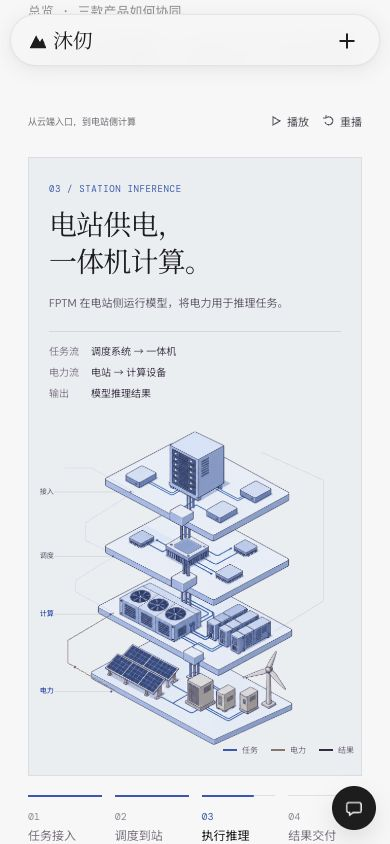
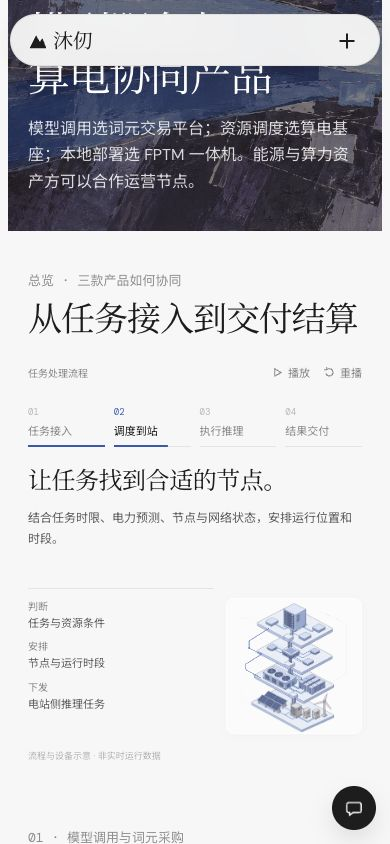
Integrate compact task flow into existing editorial site layout

diff --git a/index.html b/index.html
@@ -681,22 +681,22 @@ a.sx-a:hover .sxw,a.sx-a:hover .sx-plant{transform:translateY(-2px);background:r
  .gcard:hover .pv{transform:translateY(-3px)}.gcard .pv{transition:transform .3s var(--ease-out)}
 }
 
-/* Engineering illustration: conceptual roles, separate task and energy flows. */
-.business-flow{margin:30px 0 0;color:var(--brand-carbon)}
-.flow-toolbar{display:flex;align-items:center;justify-content:space-between;gap:12px;margin-bottom:14px;color:#766f78;font:400 11px var(--mono)}
-.flow-controls{display:flex;gap:18px}.flow-controls button{display:flex;align-items:center;gap:5px;min-height:38px;padding:4px 0;border:0;background:none;color:#655f69;font:400 11px var(--sans);cursor:pointer}.flow-controls button:hover{color:var(--brand-action)}.flow-controls svg{width:12px;height:12px}.flow-controls button:disabled{opacity:.55}
-.flow-stage{position:relative;display:grid;grid-template-columns:.8fr 1.6fr;align-items:center;gap:0;min-height:550px;padding:30px 20px 24px 30px;background:#edf0f3;border:1px solid #3D314F16;overflow:hidden}
-.flow-copy{position:relative;min-height:320px;z-index:2}.flow-scene{position:absolute;inset:0;opacity:0;visibility:hidden;transform:translateY(8px);transition:opacity .45s,transform .6s;pointer-events:none}.flow-scene.is-current{opacity:1;visibility:visible;transform:none;pointer-events:auto}
-.flow-eyebrow{display:block;font:400 10px var(--mono);letter-spacing:.07em;color:var(--brand-action);margin-bottom:20px}.flow-scene h3{font:400 31px/1.32 var(--serif);margin:0 0 18px;color:var(--brand-carbon);letter-spacing:-.03em}.flow-scene p{font:400 12px/1.9 var(--sans);color:#756c7d;margin:0 0 24px;max-width:22em}
-.flow-facts{display:grid;gap:12px;padding-top:18px;border-top:1px solid #3D314F20;margin:0}.flow-facts div{display:flex;gap:12px;font:400 11px/1.6 var(--sans)}.flow-facts dt{color:#938799;flex:none;width:3em}.flow-facts dd{margin:0;color:#50465b}
-.flow-art{position:relative;width:100%;aspect-ratio:1;align-self:center}.flow-art>img{display:block;width:100%;height:100%;object-fit:contain}.flow-art>svg{position:absolute;inset:0;width:100%;height:100%;overflow:visible}
-.flow-wire{fill:none;stroke:var(--brand-action);stroke-width:1.6;stroke-linecap:round;stroke-linejoin:round;opacity:.17}.flow-wire.energy{stroke:#96817a}.flow-wire.result{stroke:var(--brand-violet)}.flow-wire.active{stroke-width:2.5;opacity:.85}.flow-packet{fill:var(--brand-action);stroke:#edf0f3;stroke-width:2}.flow-packet.energy{fill:#96817a}.flow-packet.result{fill:var(--brand-violet)}
-.flow-layer-label{font:400 22px var(--sans);fill:#71677d}.flow-layer-label.active{fill:var(--brand-action);font-weight:500}.flow-layer-guide{fill:none;stroke:#3D314F55;stroke-width:1}.flow-layer-dot{fill:#3D314F80}.flow-layer-dot.active{fill:var(--brand-action)}
-.flow-art-key{position:absolute;right:2px;bottom:0;display:flex;gap:13px;font:400 9px var(--sans);color:#83758c}.flow-art-key span{display:flex;align-items:center;gap:5px}.flow-art-key i{width:14px;height:2px;background:var(--brand-action)}.flow-art-key span:nth-child(2) i{background:#96817a}.flow-art-key span:nth-child(3) i{background:var(--brand-violet)}
-.flow-nav{display:grid;grid-template-columns:repeat(4,minmax(0,1fr));gap:22px;margin-top:24px}.flow-nav button{position:relative;padding:14px 0;text-align:left;background:none;border:0;border-top:1px solid #3D314F1f;font:400 13px var(--sans);color:#8a818d;cursor:pointer}.flow-nav button:before{content:"";position:absolute;left:0;right:0;top:-1px;height:2px;background:var(--brand-action);transform:scaleX(var(--step-progress,0));transform-origin:left}.flow-nav button[aria-current="step"]{color:var(--brand-carbon)}.flow-nav em{font:400 10px var(--mono);margin-right:8px;color:#9a91a0}.flow-nav button[aria-current="step"] em{color:var(--brand-action)}
-.flow-caption{font:400 13px/1.85 var(--sans);color:#716979;min-height:49px;margin:5px 0 0;max-width:650px}.flow-caption p{margin:0}.flow-caption [hidden]{display:none}.flow-note{display:block;font:400 10px/1.7 var(--sans);color:#99909b;margin-top:12px}.flow-controls button:focus-visible,.flow-nav button:focus-visible{outline:2px solid var(--brand-action);outline-offset:4px}
-@media(max-width:1100px) and (min-width:801px){.flow-stage{padding:26px 14px;grid-template-columns:.8fr 1.2fr}.flow-scene h3{font-size:27px}.flow-facts div{font-size:10px}}
-@media(max-width:800px){.flow-toolbar{font-size:9px}.flow-controls{gap:14px}.flow-controls button{min-height:44px}.flow-stage{display:flex;flex-direction:column;align-items:stretch;padding:25px 20px 20px;min-height:0}.flow-copy{min-height:240px}.flow-scene h3{font-size:28px;margin-bottom:12px}.flow-scene h3 br{display:none}.flow-scene p{font-size:11px;max-width:none;margin-bottom:17px}.flow-eyebrow{font-size:9px;margin-bottom:12px}.flow-facts{gap:5px;padding-top:12px}.flow-facts div{font-size:10px}.flow-art{width:calc(100% + 30px);margin:0 -15px 10px}.flow-art-key{bottom:-10px;font-size:8px}.flow-nav{gap:13px;margin-top:19px}.flow-nav button{font-size:12px;min-height:56px;line-height:1.5}.flow-nav em{display:block;margin:0 0 4px}.flow-caption{font-size:12px;min-height:72px}.flow-note{font-size:9px}}
+/* Compact product explanation, using the site's editorial spacing and surfaces. */
+.business-flow{margin:18px 0 0;color:var(--brand-carbon)}
+.flow-toolbar{display:flex;align-items:center;justify-content:space-between;gap:12px;margin-bottom:5px;color:var(--ink-50);font:400 11px var(--sans)}
+.flow-controls{display:flex;gap:16px}.flow-controls button{display:flex;align-items:center;gap:5px;min-height:34px;padding:3px 0;border:0;background:none;color:var(--ink-50);font:400 11px var(--sans);cursor:pointer}.flow-controls button:hover{color:var(--ink)}.flow-controls svg{width:11px;height:11px}.flow-controls button:disabled{opacity:.55}
+.flow-nav{display:grid;grid-template-columns:repeat(4,minmax(0,1fr));gap:20px;margin:0 0 20px}.flow-nav button{position:relative;padding:12px 0;text-align:left;background:none;border:0;border-bottom:1px solid var(--line);font:400 13px var(--sans);color:var(--ink-50);cursor:pointer}.flow-nav button:before{content:"";position:absolute;left:0;right:0;bottom:-1px;height:2px;background:var(--brand-action);transform:scaleX(var(--step-progress,0));transform-origin:left}.flow-nav button[aria-current="step"]{color:var(--ink)}.flow-nav em{font:400 10px var(--mono);margin-right:7px;color:var(--ink-30)}.flow-nav button[aria-current="step"] em{color:var(--brand-action)}
+.flow-stage{position:relative;display:grid;grid-template-columns:minmax(0,1fr) 254px;align-items:center;gap:30px;padding:0;background:none;border:0;min-height:254px}
+.flow-copy{position:relative;min-height:226px}.flow-scene{position:absolute;inset:0;opacity:0;visibility:hidden;transform:translateY(5px);transition:opacity .3s,transform .4s;pointer-events:none}.flow-scene.is-current{opacity:1;visibility:visible;transform:none;pointer-events:auto}
+.flow-eyebrow{display:none}.flow-scene h3{font:400 25px/1.35 var(--serif);margin:0 0 10px;color:var(--ink);letter-spacing:-.02em}.flow-scene h3 br{display:none}.flow-scene p{font:400 13px/1.75 var(--sans);color:var(--ink-70);margin:0 0 16px;max-width:37em}
+.flow-facts{display:grid;gap:7px;padding:13px 0 0;border-top:1px solid var(--line);margin:0}.flow-facts div{display:flex;gap:16px;font:400 12px/1.65 var(--sans)}.flow-facts dt{color:var(--ink-50);flex:none;width:3em}.flow-facts dd{margin:0;color:var(--ink-70)}
+.flow-art{position:relative;width:254px;aspect-ratio:1;align-self:center;background:rgba(255,255,255,.48);border-radius:12px;box-shadow:inset 0 0 0 1px #ffffffa6,0 2px 9px #3D314F05}.flow-art>img{position:absolute;inset:9px 8px 16px;display:block;width:calc(100% - 16px);height:calc(100% - 25px);object-fit:contain;opacity:.84}.flow-art>svg{position:absolute;inset:9px 8px 16px;width:calc(100% - 16px);height:calc(100% - 25px);overflow:visible}
+.flow-wire{fill:none;stroke:var(--brand-action);stroke-width:2;stroke-linecap:round;stroke-linejoin:round;opacity:.1}.flow-wire.energy{stroke:var(--brand-warm)}.flow-wire.result{stroke:var(--brand-violet)}.flow-wire.active{stroke-width:4;opacity:.9}.flow-packet{fill:var(--brand-action);stroke:var(--paper);stroke-width:2}.flow-packet.energy{fill:var(--brand-warm)}.flow-packet.result{fill:var(--brand-violet)}
+.flow-layer-label{font:400 36px var(--sans);fill:#87818c}.flow-layer-label.active{fill:var(--brand-action);font-weight:500}.flow-layer-guide{fill:none;stroke:#3D314F30;stroke-width:1}.flow-layer-dot{fill:#3D314F55}.flow-layer-dot.active{fill:var(--brand-action)}
+.flow-art-key{position:absolute;right:12px;bottom:5px;display:flex;gap:10px;font:400 8px var(--sans);color:var(--ink-50)}.flow-art-key span{display:flex;align-items:center;gap:4px}.flow-art-key i{width:10px;height:1px;background:var(--brand-action)}.flow-art-key span:nth-child(2) i{background:var(--brand-warm)}.flow-art-key span:nth-child(3) i{background:var(--brand-violet)}
+.flow-caption{display:none}.flow-note{display:block;font:400 10px/1.6 var(--sans);color:var(--ink-30);margin-top:9px}.flow-controls button:focus-visible,.flow-nav button:focus-visible{outline:2px solid var(--brand-action);outline-offset:4px}
+@media(max-width:1100px) and (min-width:801px){.flow-stage{grid-template-columns:minmax(0,1fr) 215px;gap:18px}.flow-art{width:215px}.flow-copy{min-height:250px}.flow-scene h3{font-size:23px}.flow-facts div{gap:10px}}
+@media(max-width:800px){.business-flow{margin-top:14px}.flow-toolbar{font-size:10px}.flow-controls{gap:14px}.flow-controls button{min-height:40px}.flow-nav{gap:9px;margin-bottom:18px}.flow-nav button{font-size:11px;min-height:50px;padding:8px 0}.flow-nav em{display:block;margin:0 0 4px;font-size:9px}.flow-stage{grid-template-columns:minmax(0,1fr) 136px;gap:12px;align-items:end;min-height:275px}.flow-copy{min-height:275px}.flow-scene h3,.flow-scene p{width:calc(100% + 148px)}.flow-scene h3{font-size:24px;margin-bottom:10px}.flow-scene p{font-size:12px;line-height:1.75;margin-bottom:17px;min-height:63px}.flow-facts{padding-top:10px;gap:7px}.flow-facts div{display:block;font-size:11px;line-height:1.6}.flow-facts dt{width:auto;font-size:10px}.flow-art{width:136px;align-self:end;margin-bottom:6px;border-radius:8px}.flow-art>img,.flow-art>svg{inset:2px;width:calc(100% - 4px);height:calc(100% - 4px)}.flow-layer-label,.flow-layer-guide,.flow-layer-dot,.flow-art-key{display:none}.flow-note{font-size:9px;max-width:28em}}
 @media(prefers-reduced-motion:reduce){.business-flow *,.btn,.pill,.sx *,.story-sheet,.story-bar i{animation:none!important;transition:none!important}.btn:hover,.gcard:hover .pv,.sx-a:hover .sx-mark,.sx-a:hover .sx-plant>svg{transform:none}}
 
 </style>
@@ -798,11 +798,11 @@ a.sx-a:hover .sxw,a.sx-a:hover .sx-plant{transform:translateY(-2px);background:r
         <span class="pe-d">总览 · 三款产品如何协同</span>
         <h2 class="pe-t">从任务接入到交付结算</h2>
         <div class="business-flow" id="businessFlow" data-phase="0">
-<div class="flow-toolbar"><span>从云端入口，到电站侧计算</span><div class="flow-controls"><button type="button" data-flow-pause aria-pressed="false"><svg viewBox="0 0 12 12" aria-hidden="true"><path d="M4 2v8M8 2v8" fill="none" stroke="currentColor" stroke-width="1.2"/></svg><span>暂停</span></button><button type="button" data-flow-replay><svg viewBox="0 0 12 12" aria-hidden="true"><path d="M3 3a4 4 0 1 1-1 4M3 0v3H0" fill="none" stroke="currentColor" stroke-width="1.2"/></svg><span>重播</span></button></div></div>
-<div class="flow-stage"><div class="flow-copy"><section class="flow-scene is-current" data-flow-scene="0" aria-label="任务接入" aria-hidden="false"><span class="flow-eyebrow">01 / API REQUEST</span><h3>一个入口，<br>明确任务。</h3><p>模型、输入内容与交付要求，通过统一 API 进入平台。</p><dl class="flow-facts"><div><dt>输入</dt><dd>任务内容与参数</dd></div><div><dt>约束</dt><dd>模型、用量、交付时限</dd></div><div><dt>去向</dt><dd>算电协同调度</dd></div></dl></section><section class="flow-scene" data-flow-scene="1" aria-label="调度到站" aria-hidden="true" inert><span class="flow-eyebrow">02 / TASK ROUTING</span><h3>让任务找到<br>合适的节点。</h3><p>结合任务时限、电力预测、节点与网络状态，安排运行位置和时段。</p><dl class="flow-facts"><div><dt>判断</dt><dd>任务与资源条件</dd></div><div><dt>安排</dt><dd>节点与运行时段</dd></div><div><dt>下发</dt><dd>电站侧推理任务</dd></div></dl></section><section class="flow-scene" data-flow-scene="2" aria-label="执行推理" aria-hidden="true" inert><span class="flow-eyebrow">03 / STATION INFERENCE</span><h3>电站供电，<br>一体机计算。</h3><p>FPTM 在电站侧运行模型，将电力用于推理任务。</p><dl class="flow-facts"><div><dt>任务流</dt><dd>调度系统 → 一体机</dd></div><div><dt>电力流</dt><dd>电站 → 计算设备</dd></div><div><dt>输出</dt><dd>模型推理结果</dd></div></dl></section><section class="flow-scene" data-flow-scene="3" aria-label="结果交付" aria-hidden="true" inert><span class="flow-eyebrow">04 / RESULT DELIVERY</span><h3>返回结果，<br>留下记录。</h3><p>推理结果经平台交付客户，并关联本次任务的用量与费用。</p><dl class="flow-facts"><div><dt>交付</dt><dd>推理结果</dd></div><div><dt>计费</dt><dd>词元用量与费用</dd></div><div><dt>关联</dt><dd>实际提供的能源信息</dd></div></dl></section></div><div class="flow-art"><img src="art/engineering-stack_2026-10-14.png" width="1254" height="1254" alt="四层等轴测工程插画，依次表示接入、调度、计算与能源职责" loading="lazy" decoding="async"><svg viewBox="0 0 1000 1000" aria-hidden="true"><path class="flow-wire" data-engine-path="0" d="M95 140 H180 L310 215"/><circle class="flow-packet" data-engine-packet="0" r="5"/><path class="flow-wire" data-engine-path="1" d="M310 215 L160 310 V365 L255 410 L130 488 V525 L248 590"/><circle class="flow-packet" data-engine-packet="1" r="5"/><path class="flow-wire energy" data-engine-path="2" d="M250 830 L105 745 V675 L248 590"/><circle class="flow-packet energy" data-engine-packet="2" r="5"/><path class="flow-wire result" data-engine-path="3" d="M750 645 L900 552 V178 L705 90"/><circle class="flow-packet result" data-engine-packet="3" r="5"/><text class="flow-layer-label" data-engine-label="0" x="18" y="220">接入</text><path class="flow-layer-guide" d="M64 214 H300"/><circle class="flow-layer-dot" data-engine-dot="0" cx="300" cy="214" r="3"/><text class="flow-layer-label" data-engine-label="1" x="18" y="420">调度</text><path class="flow-layer-guide" d="M64 414 H245"/><circle class="flow-layer-dot" data-engine-dot="1" cx="245" cy="414" r="3"/><text class="flow-layer-label" data-engine-label="2" x="18" y="600">计算</text><path class="flow-layer-guide" d="M64 594 H238"/><circle class="flow-layer-dot" data-engine-dot="2" cx="238" cy="594" r="3"/><text class="flow-layer-label" data-engine-label="3" x="18" y="840">电力</text><path class="flow-layer-guide" d="M64 834 H240"/><circle class="flow-layer-dot" data-engine-dot="3" cx="240" cy="834" r="3"/></svg><div class="flow-art-key"><span><i></i>任务</span><span><i></i>电力</span><span><i></i>结果</span></div></div></div>
+<div class="flow-toolbar"><span>任务处理流程</span><div class="flow-controls"><button type="button" data-flow-pause aria-pressed="false"><svg viewBox="0 0 12 12" aria-hidden="true"><path d="M4 2v8M8 2v8" fill="none" stroke="currentColor" stroke-width="1.2"/></svg><span>暂停</span></button><button type="button" data-flow-replay><svg viewBox="0 0 12 12" aria-hidden="true"><path d="M3 3a4 4 0 1 1-1 4M3 0v3H0" fill="none" stroke="currentColor" stroke-width="1.2"/></svg><span>重播</span></button></div></div>
 <div class="flow-nav" aria-label="选择动画步骤"><button type="button" data-flow-step="0" aria-current="step"><em>01</em>任务接入</button><button type="button" data-flow-step="1"><em>02</em>调度到站</button><button type="button" data-flow-step="2"><em>03</em>执行推理</button><button type="button" data-flow-step="3"><em>04</em>结果交付</button></div>
+<div class="flow-stage"><div class="flow-copy"><section class="flow-scene is-current" data-flow-scene="0" aria-label="任务接入" aria-hidden="false"><span class="flow-eyebrow">01 / API REQUEST</span><h3>一个入口，<br>明确任务。</h3><p>模型、输入内容与交付要求，通过统一 API 进入平台。</p><dl class="flow-facts"><div><dt>输入</dt><dd>任务内容与参数</dd></div><div><dt>约束</dt><dd>模型、用量、交付时限</dd></div><div><dt>去向</dt><dd>算电协同调度</dd></div></dl></section><section class="flow-scene" data-flow-scene="1" aria-label="调度到站" aria-hidden="true" inert><span class="flow-eyebrow">02 / TASK ROUTING</span><h3>让任务找到<br>合适的节点。</h3><p>结合任务时限、电力预测、节点与网络状态，安排运行位置和时段。</p><dl class="flow-facts"><div><dt>判断</dt><dd>任务与资源条件</dd></div><div><dt>安排</dt><dd>节点与运行时段</dd></div><div><dt>下发</dt><dd>电站侧推理任务</dd></div></dl></section><section class="flow-scene" data-flow-scene="2" aria-label="执行推理" aria-hidden="true" inert><span class="flow-eyebrow">03 / STATION INFERENCE</span><h3>电站供电，<br>一体机计算。</h3><p>FPTM 在电站侧运行模型，将电力用于推理任务。</p><dl class="flow-facts"><div><dt>任务流</dt><dd>调度系统 → 一体机</dd></div><div><dt>电力流</dt><dd>电站 → 计算设备</dd></div><div><dt>输出</dt><dd>模型推理结果</dd></div></dl></section><section class="flow-scene" data-flow-scene="3" aria-label="结果交付" aria-hidden="true" inert><span class="flow-eyebrow">04 / RESULT DELIVERY</span><h3>返回结果，<br>留下记录。</h3><p>推理结果经平台交付客户，并关联本次任务的用量与费用。</p><dl class="flow-facts"><div><dt>交付</dt><dd>推理结果</dd></div><div><dt>计费</dt><dd>词元用量与费用</dd></div><div><dt>关联</dt><dd>实际提供的能源信息</dd></div></dl></section></div><div class="flow-art"><img src="art/engineering-stack_2026-10-14.png" width="1254" height="1254" alt="四层等轴测工程插画，依次表示接入、调度、计算与能源职责" loading="lazy" decoding="async"><svg viewBox="0 0 1000 1000" aria-hidden="true"><path class="flow-wire" data-engine-path="0" d="M95 140 H180 L310 215"/><circle class="flow-packet" data-engine-packet="0" r="7"/><path class="flow-wire" data-engine-path="1" d="M310 215 L160 310 V365 L255 410 L130 488 V525 L248 590"/><circle class="flow-packet" data-engine-packet="1" r="7"/><path class="flow-wire energy" data-engine-path="2" d="M250 830 L105 745 V675 L248 590"/><circle class="flow-packet energy" data-engine-packet="2" r="7"/><path class="flow-wire result" data-engine-path="3" d="M750 645 L900 552 V178 L705 90"/><circle class="flow-packet result" data-engine-packet="3" r="7"/><text class="flow-layer-label" data-engine-label="0" x="18" y="220">接入</text><path class="flow-layer-guide" d="M64 214 H300"/><circle class="flow-layer-dot" data-engine-dot="0" cx="300" cy="214" r="3"/><text class="flow-layer-label" data-engine-label="1" x="18" y="420">调度</text><path class="flow-layer-guide" d="M64 414 H245"/><circle class="flow-layer-dot" data-engine-dot="1" cx="245" cy="414" r="3"/><text class="flow-layer-label" data-engine-label="2" x="18" y="600">计算</text><path class="flow-layer-guide" d="M64 594 H238"/><circle class="flow-layer-dot" data-engine-dot="2" cx="238" cy="594" r="3"/><text class="flow-layer-label" data-engine-label="3" x="18" y="840">电力</text><path class="flow-layer-guide" d="M64 834 H240"/><circle class="flow-layer-dot" data-engine-dot="3" cx="240" cy="834" r="3"/></svg><div class="flow-art-key"><span><i></i>任务</span><span><i></i>电力</span><span><i></i>结果</span></div></div></div>
 <div class="flow-caption"><p data-flow-caption="0">任务通过统一 API 接入，模型、用量与交付时限进入调度环节。</p><p data-flow-caption="1" hidden>结合任务要求、电力预测、节点与网络状态，安排运行节点和时段，将任务送往电站侧一体机。</p><p data-flow-caption="2" hidden>电站供电，FPTM 一体机运行模型，完成推理计算。</p><p data-flow-caption="3" hidden>推理结果返回平台并交付客户，同时记录用量、费用与能源信息。</p></div>
-<small class="flow-note">概念职责分层示意 · 非设备实物拆解图；动画不代表实时状态或实际处理时长。</small>
+<small class="flow-note">流程与设备示意 · 非实时运行数据</small>
 </div>
       </article>
 

diff --git a/README.md b/README.md
@@ -63,3 +63,10 @@
 - 任务经接入与调度进入计算层；电力独立从能源层输入计算层；结果沿返回路径交付。复用原有单一时间轴、暂停、重播、步骤定位、离屏暂停与减少动效逻辑。
 - 桌面为文字与插画并排，手机上下排列。沿用原有字体和品牌晨蓝、暖灰、紫灰色系。原业务数据、导航和表单地址未改动；本轮仅修改本地副本。
 - 验证：1280px 桌面、390px 手机无横向溢出；图片完整加载；四个阶段的正文及活动线路对应，重播和暂停可用；JS 语法、重复 ID、git diff 检查通过。最新截图沿用 `qa/motion-desktop-2026-10-14.png` 与 `qa/motion-mobile-2026-10-14.png`。
+
+## 2026-10-14 流程模块收敛到官网排版
+
+- 删除大幅蓝灰展板，使用网站既有字体、正文灰度、细分隔线与轻透明白色表面。步骤导航移到说明上方；工程插图降为辅助内容。
+- 1280px 视口实测：模块高 382px，辅助图 254 × 254px。手机版辅助图 136 × 136px，与字段说明并排；四步均核查无横向溢出、图片不覆盖正文。
+- 删除可见重复段落与英文阶段编号，保留任务输入、调度条件、电力输入及结果交付的具体说明。暂停、重播及线路动画继续使用原时间轴。
+- JS 语法、ID、原字体定义、链接、表单地址和业务数据比对通过；仅本地修订，未发布。
